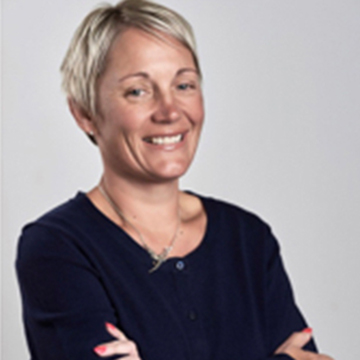
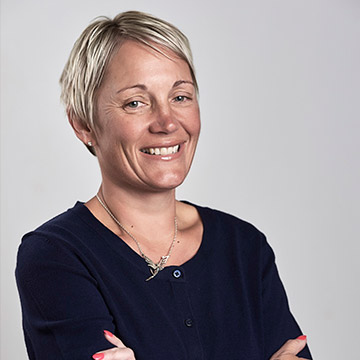
updates Mrs Gonzales image with higher-res one and link the Employee Handbook

diff --git a/src/pages/human-resources.js b/src/pages/human-resources.js
@@ -8,6 +8,7 @@ import Fade from "react-reveal/Fade"
 import { FaRegEnvelope, FaTag } from "react-icons/fa"
 import LisaGonzales from "../images/team/lGonzales.jpg"
 import EmploymentApp from "../../src/documents/CBET Employment Application_7.8.2019.pdf"
+import EmployeeHandbook from "../../src/documents/CBET EMPLOYEE HANDBOOK _ July 2019.pdf"
 
 const HumanResources = () => (
   <LayoutDetail>
@@ -51,7 +52,11 @@ const HumanResources = () => (
               <Row>
                 <Col>
                   <a href={EmploymentApp}>
-                    <Button>Employment Application</Button>
+                    <Button className="mb-2">Employment Application</Button>
+                  </a>
+
+                  <a href={EmployeeHandbook}>
+                    <Button>Employment Handbook</Button>
                   </a>
                 </Col>
               </Row>
